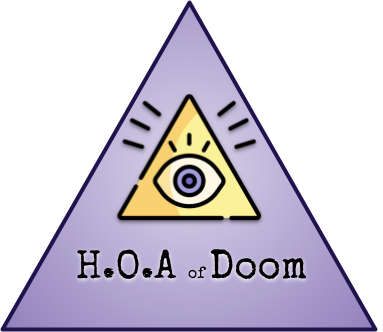
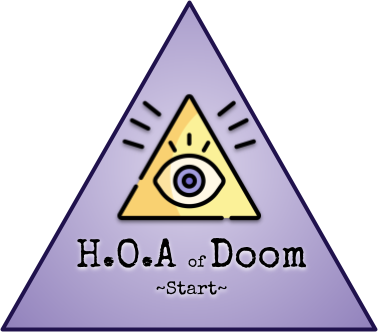
zones. card placement and rotation.  proper start cards, proper start card backs. next up: layering.

Changed region(s): [[0.201, 0.6928, 0.8042, 0.9036]]

diff --git a/Html/hoaCards.html b/Html/hoaCards.html
@@ -85,7 +85,13 @@
 
         var backConfig = {
           callback: function (parentNode, index) {
-            return triangleCards.addCardBack(parentNode, cardConfigs, index);
+            var cardBack = triangleCards.addCardBack(
+              parentNode,
+              cardConfigs,
+              index
+            );
+
+            htmlUtils.addDiv(cardBack, ["start-text"], "Starter");
           },
           classes: ["hoa"],
         };

diff --git a/Html/css/hoa_cards.css b/Html/css/hoa_cards.css
@@ -82,5 +82,15 @@
 .card.back.hoa.triangle.start .back-wrapper {
   background-image: url("../images/Cards/backs/hoaBackBackgroundStart.png");
 }
+.card.back.hoa.triangle.start .start-text {
+  position: absolute;
+  width: 100%;
+  height: 30px;
+  top: 100px;
+  left: 0px;
+  text-align: center;
+  font-size: 24px;
+  z-index: 100;
+}
 
 /*# sourceMappingURL=hoa_cards.css.map */

diff --git a/Html/scss/hoa_cards.scss b/Html/scss/hoa_cards.scss
@@ -101,4 +101,15 @@
   .back-wrapper {
     background-image: url("../images/Cards/backs/hoaBackBackgroundStart.png");
   }
+
+  .start-text {
+    position: absolute;
+    width: 100%;
+    height: 30px;
+    top: 100px;
+    left: 0px;
+    text-align: center;
+    font-size: 24px;
+    z-index: 100;
+  }
 }
